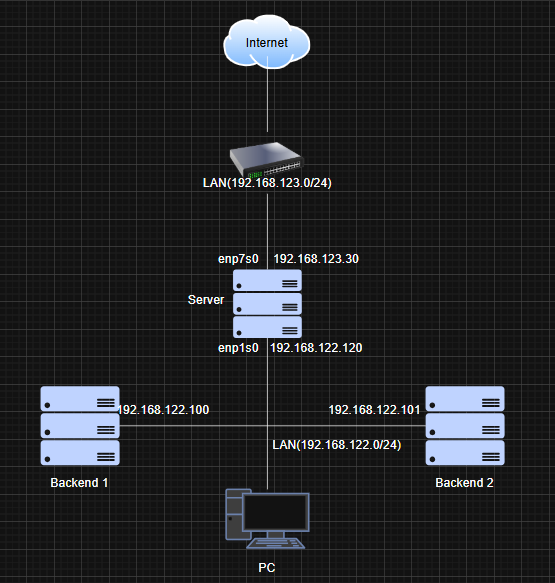
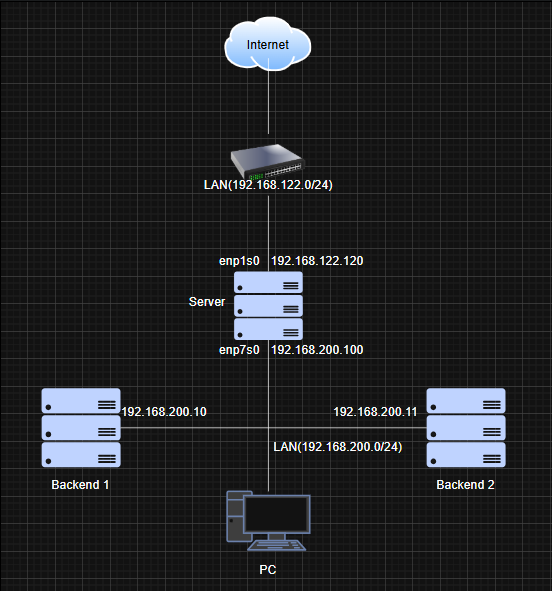
update

diff --git a/LuongVN/IPTABLES/lab/03.Mo_hinh_lab_3.md b/LuongVN/IPTABLES/lab/03.Mo_hinh_lab_3.md
@@ -2,3 +2,84 @@
 
 ![alt text](../images/lab_3_01.png)
 
+## II. Yêu cầu
+**Chi tiết:**
+
+- DROP các INPUT traffic mặc định vào server
+- ACCEPT các OUTPUT traffic mặc định từ server
+- DROP các traffic forward mặc định
+- ACCEPT các traffic đã kết nối (ESTABLISHED)
+- ACCEPT kết nối từ loopback
+- FORWARD các packet từ port 80 `enp1s0` tới Backend1 trên cùng port
+- FORWARD các packet từ port 443 `enp1s0` tới Backend2 trên cùng port
+- DROP các packet từ địa chỉ `192.168.122.200` 
+- ACCEPT các kết nối ping 5 lần 1 phút từ internal network (`192.168.200.0/24`)
+- DROP các packet từ địa chỉ `192.168.200.20`
+- ACCEPT các kết nối ra ngoài từ internal network và chuyển đổi địa chỉ nguồn 
+
+## III. Thực hiện 
+
+Viết script rules cho iptables:
+
+`vi iptables.sh`
+
+```bash
+#!/bin/bash
+
+trust_host='192.168.200.0/24'
+my_internal_ip='192.168.200.100'
+my_external_ip='192.168.122.120'
+
+listen_port_1='80'
+backend_host_1='192.168.200.10'
+backend_port_1='80'
+
+listen_port_2='443'
+backend_host_2='192.168.200.11'
+backend_port_2='443'
+
+echo 1 > /proc/sys/net/ipv4/ip_forward
+
+/sbin/iptables -F
+/sbin/iptables -t nat -F
+/sbin/iptables -X
+
+/sbin/iptables -P INPUT DROP
+/sbin/iptables -P OUTPUT ACCEPT
+/sbin/iptables -P FORWARD DROP
+
+/sbin/iptables -A FORWARD -i enp7s0 -o enp1s0 -s $trust_host -j ACCEPT
+/sbin/iptables -A FORWARD -m state --state ESTABLISHED,RELATED -j ACCEPT
+
+/sbin/iptables -A FORWARD -s 192.168.122.200 -j DROP
+
+/sbin/iptables -A FORWARD -p tcp -d $backend_host_1 --dport $backend_port_1 -j ACCEPT
+/sbin/iptables -A FORWARD -p tcp -d $backend_host_2 --dport $backend_port_2 -j ACCEPT
+
+/sbin/iptables -A INPUT -s 192.168.200.20 -j DROP
+
+/sbin/iptables -A INPUT -m state --state ESTABLISHED,RELATED -j ACCEPT
+/sbin/iptables -A INPUT -s 127.0.0.1 -d 127.0.0.1 -j ACCEPT
+/sbin/iptables -A INPUT -p icmp --icmp-type echo-request -s $trust_host -d $my_internal_ip -m limit --limit 1/m --limit-burst 5 -j ACCEPT
+/sbin/iptables -A INPUT -p tcp -m state --state NEW -m tcp -s $trust_host -d $my_internal_ip --dport 22 -j ACCEPT
+
+/sbin/iptables -t nat -A POSTROUTING -o enp1s0 -s $trust_host -j MASQUERADE
+
+/sbin/iptables -t nat -A PREROUTING -p tcp -d $my_external_ip --dport $listen_port_1 -j DNAT --to-destination $backend_host_1:$backend_port_1
+/sbin/iptables -t nat -A PREROUTING -p tcp -d $my_external_ip --dport $listen_port_2 -j DNAT --to-destination $backend_host_2:$backend_port_2
+
+apt install -y iptables-persistent
+netfilter-persistent save
+```
+
+Chạy script và kiểm chứng:
+
+```bash
+chmod +x iptables.sh
+./iptables.sh
+```
+
+## IV. Kiểm tra
+
+### 1. Kiểm tra Port Forwarding 
+- Từ máy có IP `192.168.122.150` test qua `external_ip`:
